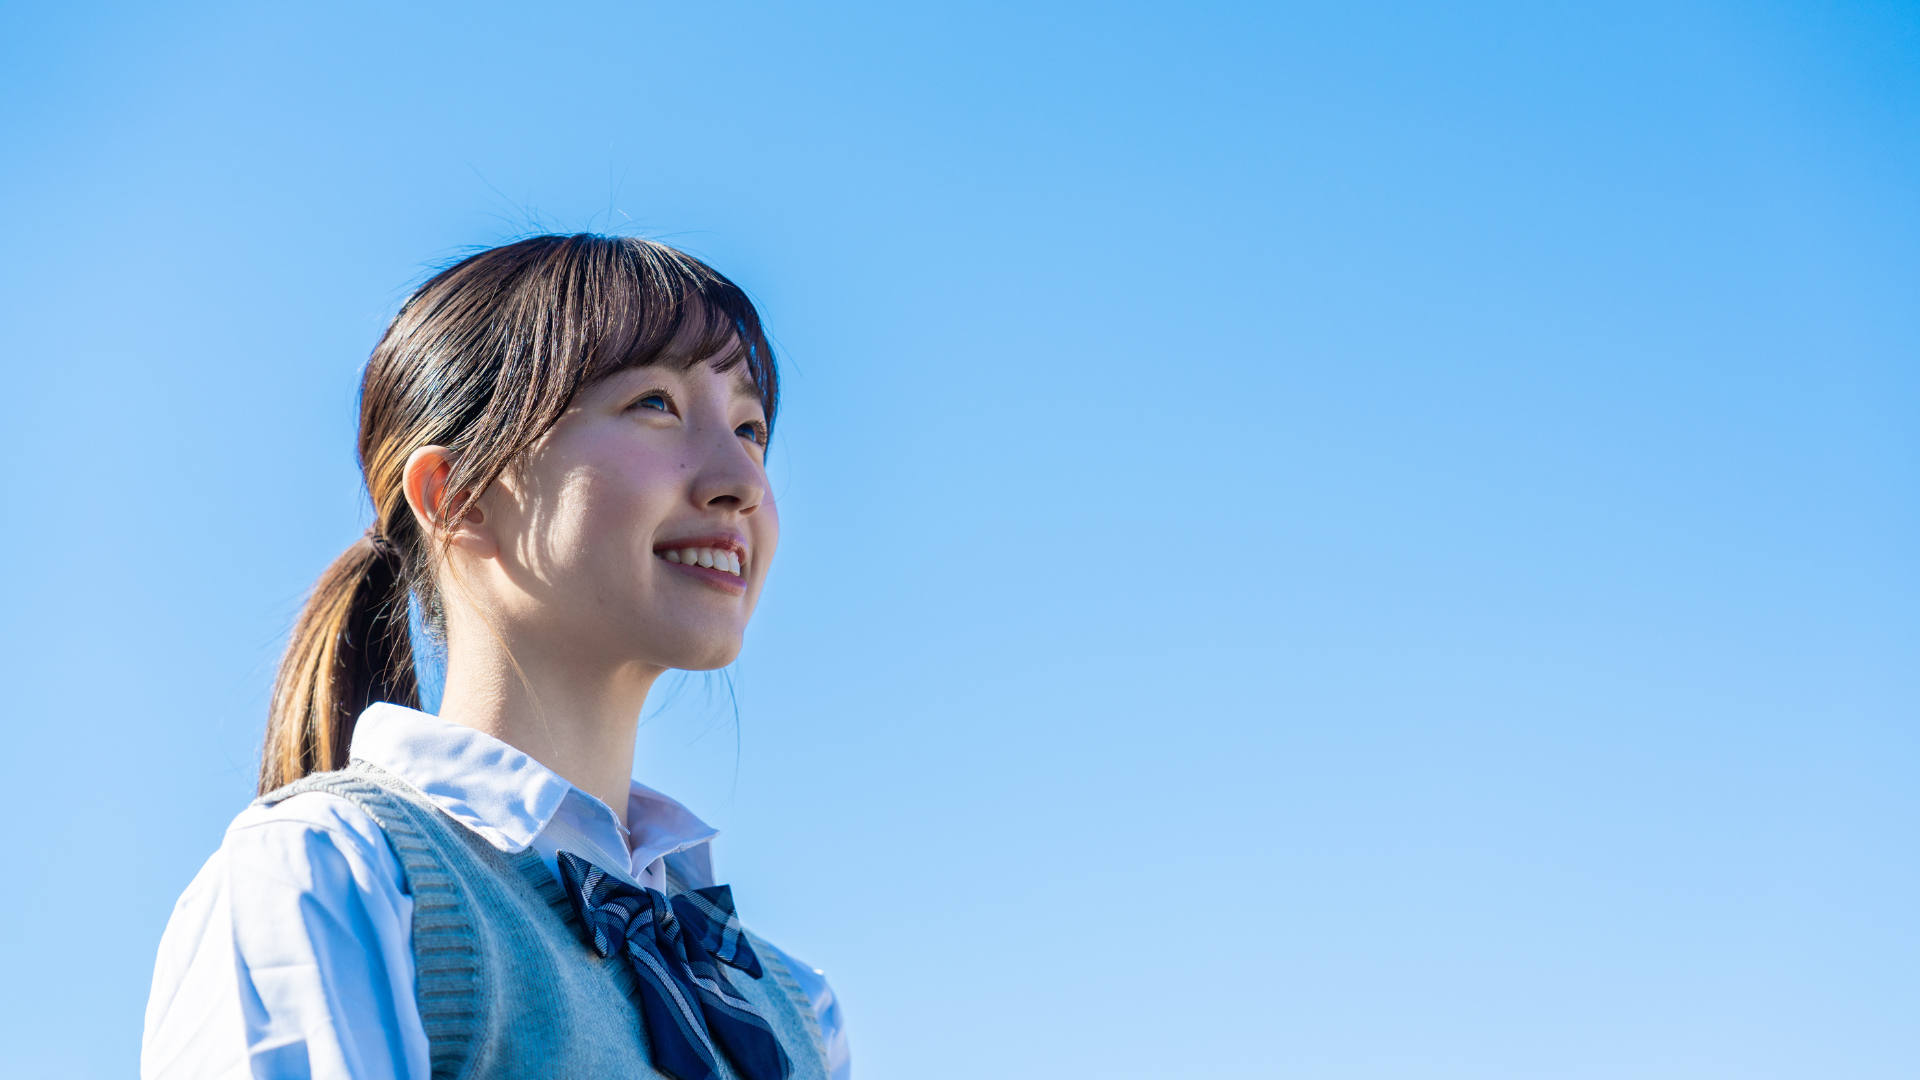
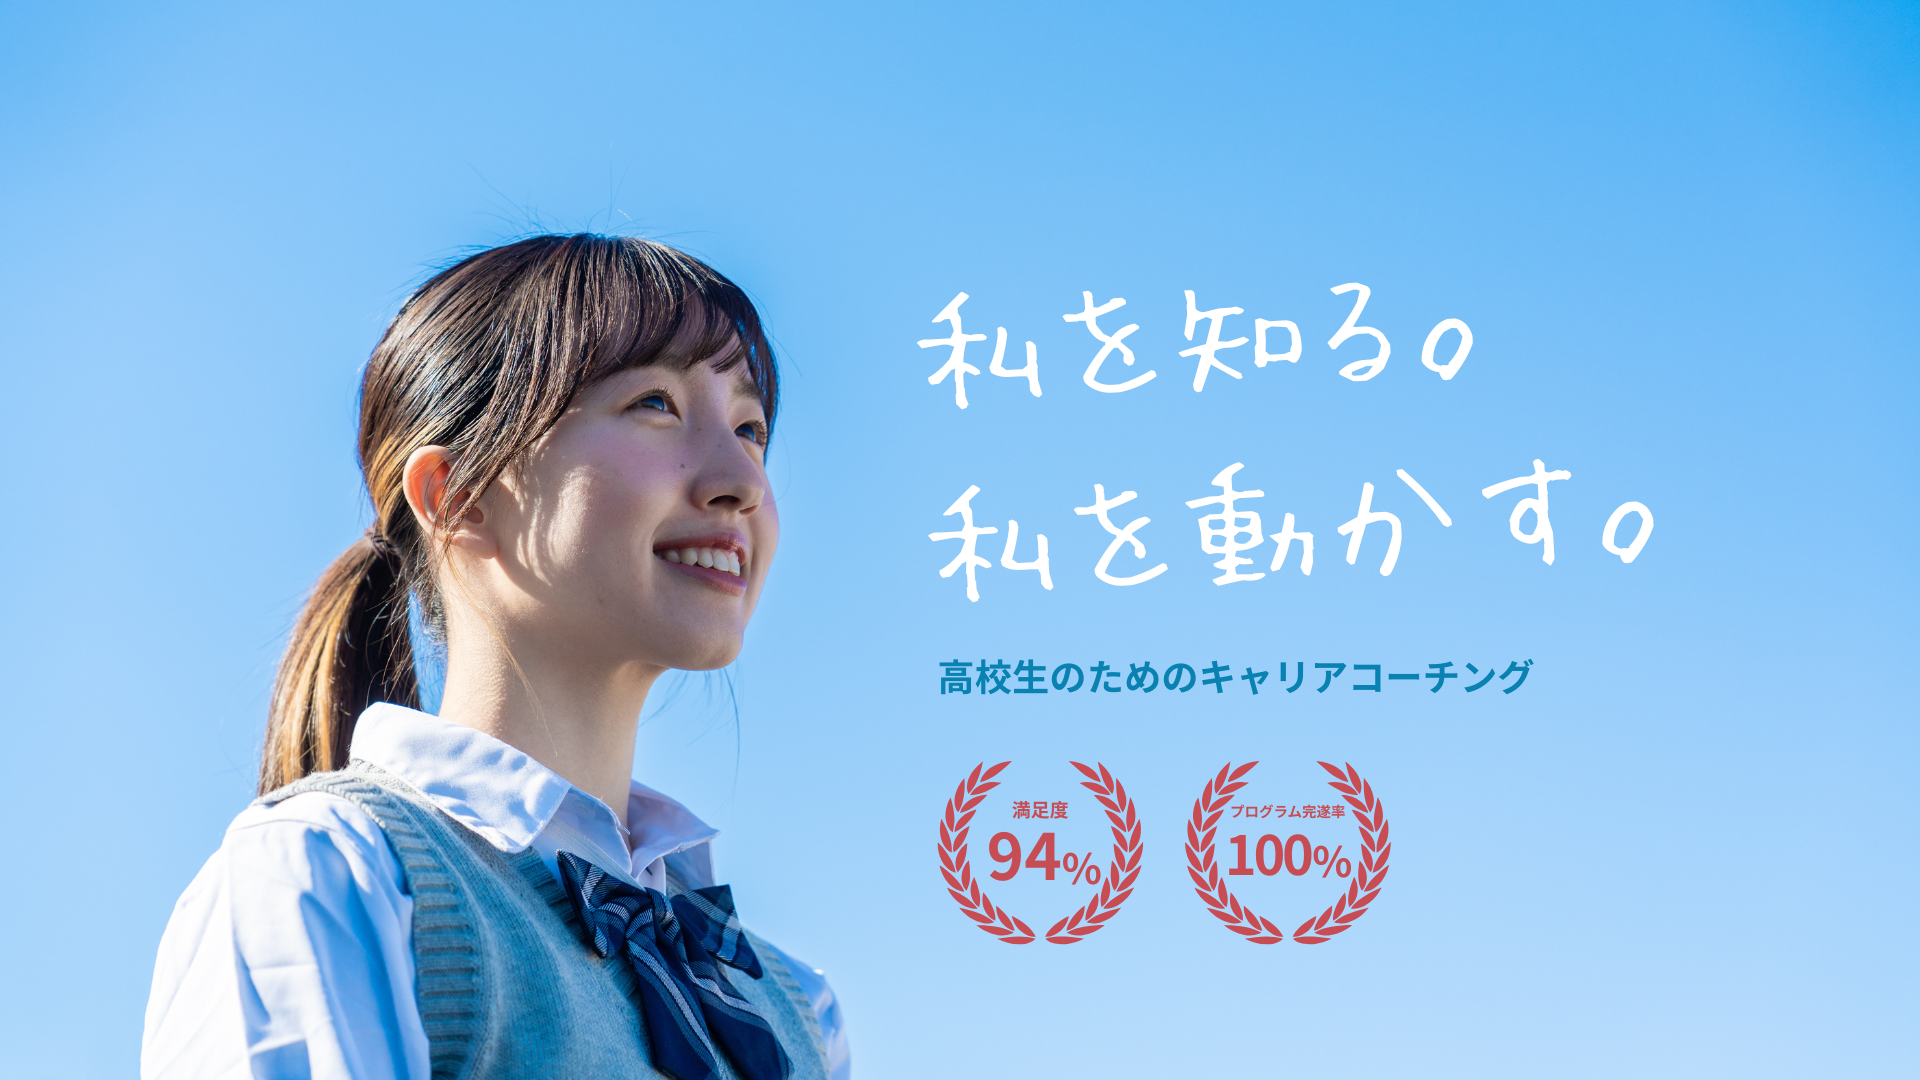
update hero

diff --git a/lp01/common/css/override.css b/lp01/common/css/override.css
@@ -440,7 +440,7 @@ body.is-header-solid #header {
 
   transform: translateY(calc(-50% - 40px));
 
-  width: clamp(360px, 43.2vw, 672px);
+  width: clamp(120px, 14.4vw, 224px);
 
   max-width: 100%;
 
@@ -453,23 +453,14 @@ body.is-header-solid #header {
 }
 
 @media (max-width: 767px) {
-
   .heroSection__words {
-
     right: calc(clamp(12px, 5vw, 32px) + 10px);
-
-    width: 32.5vw;
-
+    width: clamp(40px, 10.8vw, 224px);
     max-width: none;
-
     min-width: 0;
-
     top: 42%;
-
     transform: translateY(-50%);
-
   }
-
 }
 
 
@@ -500,13 +491,15 @@ body.is-header-solid #header {
 
 .heroScrollIndicator {
 
+  --hero-scroll-indicator-scale: 1;
+
   position: absolute;
 
   bottom: clamp(48px, 8vh, 88px);
 
   left: 50%;
 
-  transform: translateX(-50%);
+  transform: translateX(-50%) scale(var(--hero-scroll-indicator-scale, 1));
 
   display: flex;
 
@@ -584,7 +577,7 @@ body.is-header-solid #header {
 
     opacity: 0;
 
-    transform: translateX(-50%) translateY(24px);
+    transform: translateX(-50%) translateY(24px) scale(var(--hero-scroll-indicator-scale, 1));
 
   }
 
@@ -592,7 +585,7 @@ body.is-header-solid #header {
 
     opacity: 1;
 
-    transform: translateX(-50%) translateY(0);
+    transform: translateX(-50%) translateY(0) scale(var(--hero-scroll-indicator-scale, 1));
 
   }
 
@@ -604,31 +597,31 @@ body.is-header-solid #header {
 
   0% {
 
-    transform: translateX(-50%) translateY(0);
+    transform: translateX(-50%) translateY(0) scale(var(--hero-scroll-indicator-scale, 1));
 
   }
 
   25% {
 
-    transform: translateX(-50%) translateY(-10px);
+    transform: translateX(-50%) translateY(-10px) scale(var(--hero-scroll-indicator-scale, 1));
 
   }
 
   50% {
 
-    transform: translateX(-50%) translateY(0);
+    transform: translateX(-50%) translateY(0) scale(var(--hero-scroll-indicator-scale, 1));
 
   }
 
   75% {
 
-    transform: translateX(-50%) translateY(10px);
+    transform: translateX(-50%) translateY(10px) scale(var(--hero-scroll-indicator-scale, 1));
 
   }
 
   100% {
 
-    transform: translateX(-50%) translateY(0);
+    transform: translateX(-50%) translateY(0) scale(var(--hero-scroll-indicator-scale, 1));
 
   }
 
@@ -718,7 +711,9 @@ body.is-header-solid #header {
 
   .heroScrollIndicator {
 
-    bottom: clamp(24px, 6vh, 48px);
+    bottom: clamp(12px, 5vh, 36px);
+
+    --hero-scroll-indicator-scale: 0.8;
 
   }
 
@@ -748,7 +743,7 @@ body.is-header-solid #header {
 
   .heroScrollIndicator {
 
-    bottom: 16px;
+    bottom: 12px;
 
     gap: 8px;
 
@@ -812,7 +807,7 @@ body.is-header-solid #header {
 
     opacity: 1;
 
-    transform: translateX(-50%);
+    transform: translateX(-50%) scale(var(--hero-scroll-indicator-scale, 1));
 
     animation: none;
 
@@ -2258,6 +2253,7 @@ body.theme-palette-3 {
 .coachingOverview__list .-text {
 
   font-size: clamp(16px, 2.3vw, 18px);
+  color: #ffffff;
 
 }
 

diff --git a/index.html b/index.html
@@ -293,13 +293,12 @@
               height="880"
               alt="高校生キャリアコーチングのヒーロービジュアル"
             />
-            <img
+            <!-- <img
               class="heroSection__words"
               src="lp01/common/img/herowords.svg"
               width="646"
               height="544"
-              alt="高校生キャリアコーチングのサービスコピー"
-            />
+              /> -->
             <div class="heroScrollIndicator" aria-hidden="true" onclick="document.getElementById('seqLead').scrollIntoView({behavior: 'smooth'})">
               <span class="heroScrollIndicator__text">SCROLL</span>
               <span class="heroScrollIndicator__line"></span>
